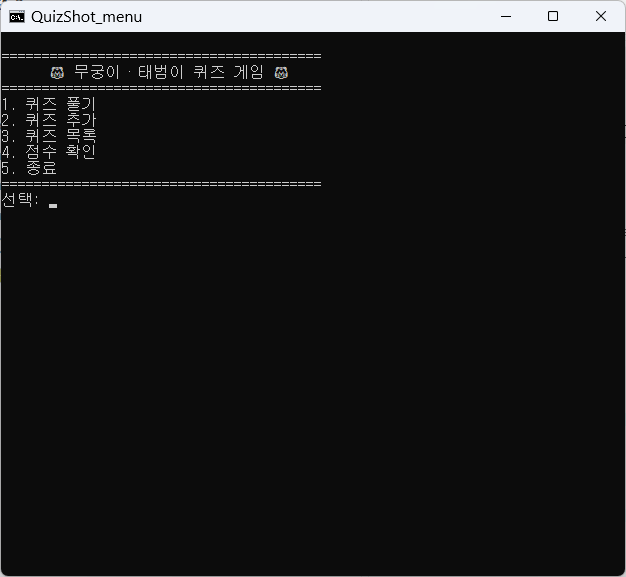
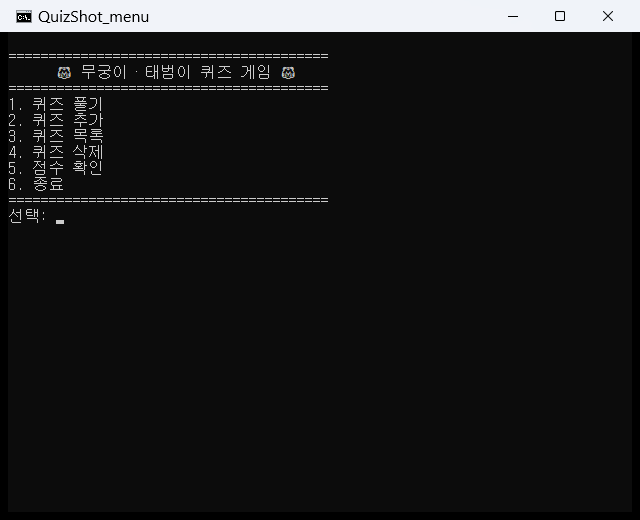
Docs: 실행 화면·목록·커밋 그래프 스크린샷 갱신

Changed region(s): [[0.0, 0.0923, 0.516, 0.4308], [0.0, 0.0, 1.0, 0.0615], [0.0, 0.9846, 1.0, 1.0]]

diff --git a/README.md b/README.md
@@ -92,9 +92,19 @@ E1-2/
 최고 점수는 **맞힌 문제 수가 더 많은 기록**으로 갱신됩니다.
 
 ## 실행 화면
+### 메뉴
 ![메뉴](docs/screenshots/menu.png)
+
+### 퀴즈 풀기 (문제 수 선택, 무작위 출제, 힌트 사용 시 0.5문제)
 ![플레이](docs/screenshots/play.png)
+
+### 퀴즈 추가 (힌트 입력 포함)
 ![퀴즈 추가](docs/screenshots/add_quiz.png)
+
+### 퀴즈 목록
+![퀴즈 목록](docs/screenshots/list.png)
+
+### 점수 확인 (최고 점수와 최근 기록)
 ![점수](docs/screenshots/score.png)
 
 ## Git 실습 기록
@@ -102,3 +112,10 @@ E1-2/
 
 ![clone 기록](docs/screenshots/git_clone.png)
 ![pull과 커밋 그래프](docs/screenshots/git_pull_log.png)
+
+### 커밋 그래프 (`git log --oneline --graph --all`)
+- 필수 기능은 `feature/play`, 보너스 5개는 각각 `feature/random`, `feature/question-count`,
+  `feature/delete`, `feature/history`, `feature/hint` 브랜치에서 작업한 뒤 `--no-ff`로 main에 병합했습니다.
+- 한국어 Windows 콘솔 글꼴에서는 그래프의 `\`가 `₩`로 보입니다.
+
+![커밋 그래프](docs/screenshots/git_log_graph.png)
